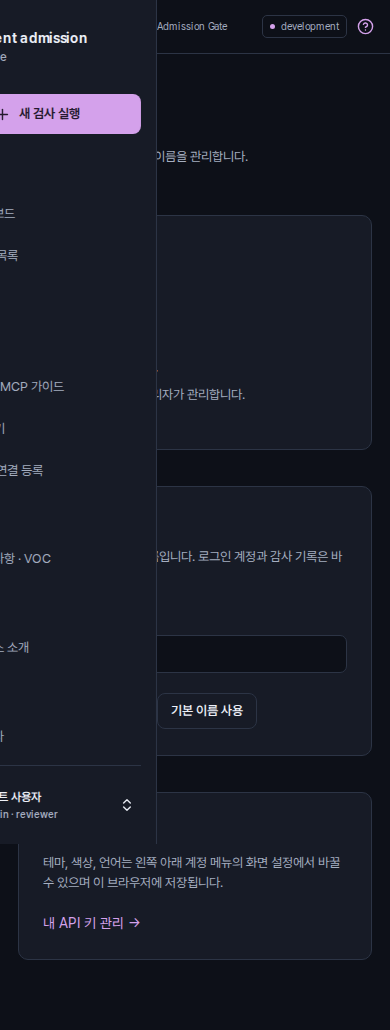
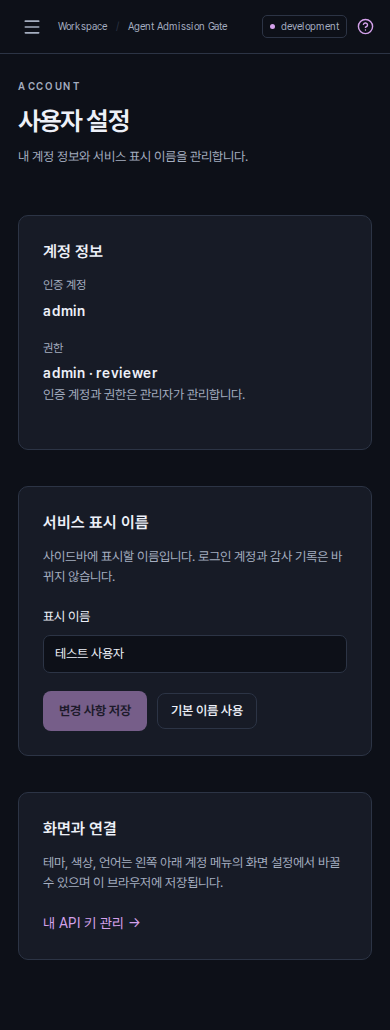
test: capture account settings after mobile sidebar closes (#13)

diff --git a/frontend/e2e/account-settings.spec.ts b/frontend/e2e/account-settings.spec.ts
@@ -30,6 +30,12 @@ test("edit and reset a personal display name without changing account identity",
     fullPage: true,
   });
   await page.setViewportSize({ width: 390, height: 844 });
+  await expect
+    .poll(async () => {
+      const bounds = await page.locator(".sidebar").boundingBox();
+      return bounds ? bounds.x + bounds.width : 0;
+    })
+    .toBeLessThanOrEqual(0);
   await expect(page.getByLabel("표시 이름")).toBeVisible();
   expect(
     await page.evaluate(

diff --git a/docs/engineering/lessons-learned.md b/docs/engineering/lessons-learned.md
@@ -173,7 +173,7 @@
 
 - Failure: returning from a revoked key initially showed the old list state, and future-dated records were included in a rolling 30-day total. A mobile capture also caught the sidebar mid-transition.
 - Cause: the list retained its previous fetch, the usage window had no upper bound, and the screenshot was taken immediately after changing viewport size.
-- Resolution: refresh and clamp the list on return, bound the usage window at the current time, and wait for the sidebar to finish moving before capture.
+- Resolution: refresh and clamp the list on return, bound the usage window at the current time, and wait for the sidebar to finish moving before capture. Apply the same wait to the account-settings mobile capture, which independently had the same issue.
 - Prevention: test return navigation after mutations, seed records on both sides of time windows, and check mobile element bounds before screenshots.
 
 ### Isolated browser configuration and pagination bounds (2026-11-02)
